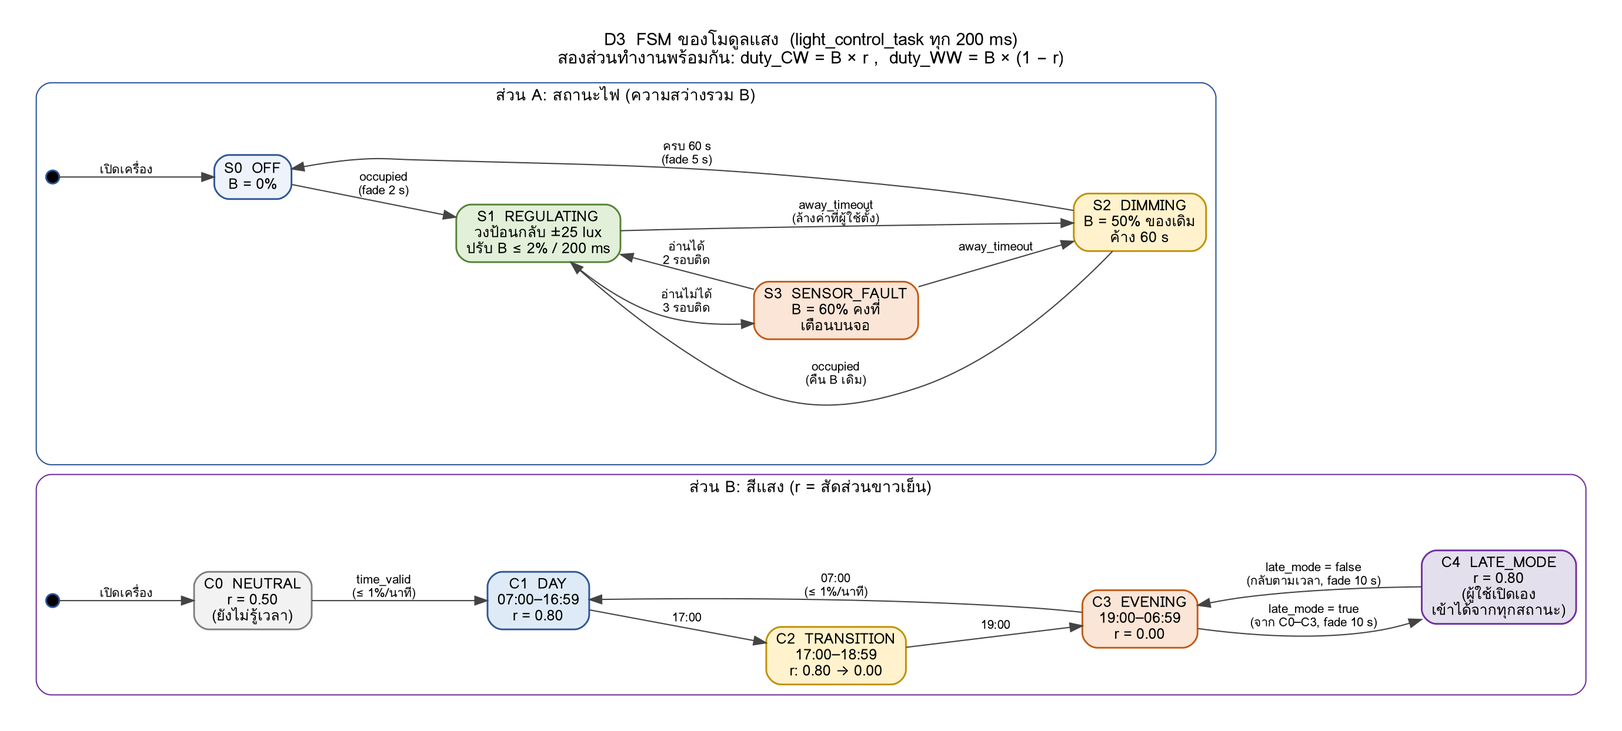
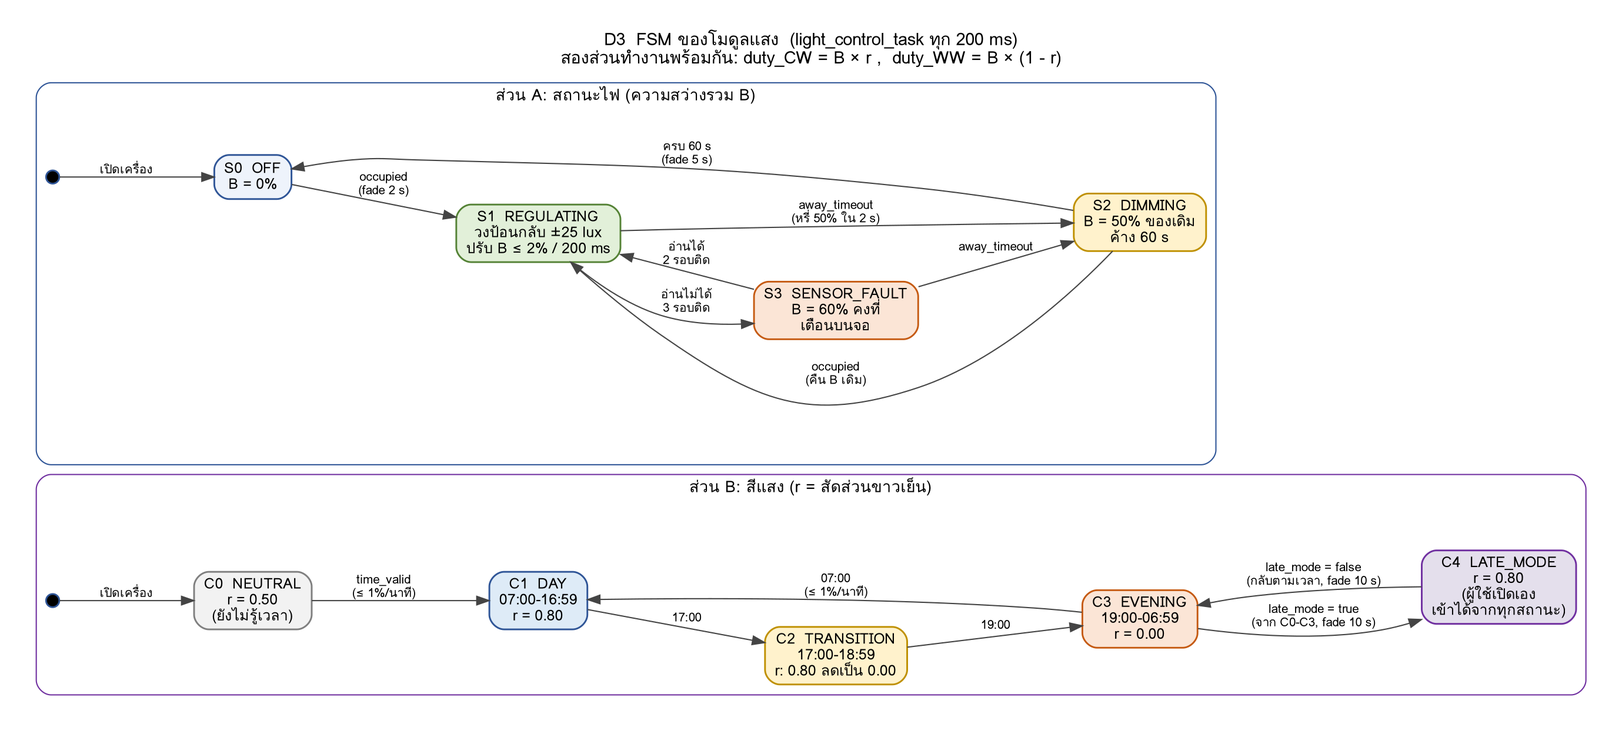
docs(role-d): update D1/D2/D3/D-TC per A1 v1.0 and A2, Closes #7

diff --git a/09_doc_sections/D_pm_light/D4_4.2_hardware_light.md b/09_doc_sections/D_pm_light/D4_4.2_hardware_light.md
@@ -1,39 +1,41 @@
 # เนื้อหาเล่ม: หัวข้อ 4.2 ส่วนโมดูลแสง (D)
 
-> ไฟล์นี้คือข้อความที่จะลงเล่มในหัวข้อ 4.2 Sensor/Actuator Choice and Justification ส่วนโมดูลแสง
+> ข้อความชุดนี้ตรงกับเล่มร่างของ D ทุกตัวอักษร (อัปเดต 2026-10-14 ตาม A1 v1.0 และ A2) เขียนตามกติกาเล่ม: ไม่อ้างบท/หน้าสไลด์ ไม่ใช้ขีดยาวหรือลูกศร
+> เลขอ้างอิง [x] และเลขตาราง/ภาพเป็นเลขในเล่มร่าง อาจเปลี่ยนตอนรวมเล่ม
 > รายละเอียดทางเทคนิคเต็มอยู่ใน `03_hardware/D2_hardware_light.md`
-> เลขอ้างอิง [x] ตามรายการใน `01_requirements/D1_requirements.md` ข้อ 7 (เลขอาจเปลี่ยนตอนรวมเล่ม)
 
 ---
 
-## 4.2.x อุปกรณ์โมดูลแสง (โหนดโต๊ะ)
+### 4.2.3 อุปกรณ์โมดูลแสง
 
 โมดูลแสงมีหน้าที่รักษาความสว่างบนโต๊ะให้อยู่ที่ 500 lux และปรับสีแสงตามช่วงเวลาของวัน จึงประกอบด้วยอุปกรณ์ 3 ส่วน ได้แก่ เซนเซอร์วัดแสงที่บอกว่าตอนนี้โต๊ะสว่างเท่าไร แหล่งแสง LED ที่ปรับได้ทั้งความสว่างและสี และวงจรขับที่ทำให้ไมโครคอนโทรลเลอร์สั่งแหล่งแสง 12 V ได้
 
 **1) เซนเซอร์วัดแสง BH1750FVI**
 
-เลือก BH1750 เพราะให้ค่าออกมาเป็นหน่วย lux โดยตรง ระบบนำไปเทียบกับค่าเป้าหมาย 500 lux ได้ทันทีโดยไม่ต้องแปลงสูตร และการตอบสนองต่อแสงใกล้เคียงสายตาคน (ไวที่สุดที่ความยาวคลื่น 560 nm) ค่าที่วัดได้จึงตรงกับความสว่างที่ผู้ใช้รู้สึก เซนเซอร์มีฟังก์ชันตัดการกะพริบของไฟบ้าน 50/60 Hz ทำให้ค่าไม่แกว่งตามไฟเพดาน และวัดได้ 1–65,535 lux ซึ่งครอบคลุมช่วงที่โต๊ะทำงานในอาคารต้องการ (0–2,000 lux) ตามหลักการกำหนดช่วงค่าที่งานต้องการวัด (บท 13 หน้า 18)
+เลือก BH1750 เพราะให้ค่าออกมาเป็นหน่วย lux โดยตรง ระบบนำไปเทียบกับค่าเป้าหมาย 500 lux ได้ทันทีโดยไม่ต้องแปลงสูตร และการตอบสนองต่อแสงใกล้เคียงสายตาคน (ไวที่สุดที่ความยาวคลื่น 560 nm) ค่าที่วัดได้จึงตรงกับความสว่างที่ผู้ใช้รู้สึก เซนเซอร์มีฟังก์ชันตัดการกะพริบของไฟบ้าน 50/60 Hz ทำให้ค่าไม่แกว่งตามไฟเพดาน และวัดได้ 1-65,535 lux ซึ่งครอบคลุมช่วงที่โต๊ะทำงานในอาคารต้องการ (0-2,000 lux) จึงไม่ต้องสลับช่วงวัดระหว่างใช้งาน [14]
 
-เซนเซอร์ต่อกับ ESP32 ทาง I²C ใช้เพียง 2 ขา และใช้บัสร่วมกับจอ OLED ของโมดูลตรวจคนได้ ซึ่งตรงกับแนวทางเลือกอุปกรณ์ที่ตัวประมวลผลรองรับการเชื่อมต่อในตัว เพื่อประหยัดขาและลดงานซอฟต์แวร์ (บท 10 หน้า 44–45) เมื่อเทียบกับตัวต้านทานไวแสง (LDR) ที่ราคาถูกกว่า LDR ให้ค่าไม่เป็นเส้นตรง ต้อง calibrate เอง และค่าเปลี่ยนตามอุณหภูมิ ส่วน VEML7700 วัดได้กว้างถึงราว 120,000 lux ซึ่งเกินความต้องการของงานในอาคาร
+เซนเซอร์ต่อกับ ESP32 ทาง I²C ใช้เพียง 2 ขา และใช้บัสร่วมกับจอ OLED ของโมดูลตรวจคนได้ ESP32 มีวงจร I²C อยู่ในตัวแล้ว จึงช่วยประหยัดขาของไมโครคอนโทรลเลอร์และลดงานซอฟต์แวร์ เมื่อเทียบกับตัวต้านทานไวแสง (LDR) ที่ราคาถูกกว่า LDR ให้ค่าไม่เป็นเส้นตรง ต้องปรับเทียบเอง และค่าเปลี่ยนตามอุณหภูมิ ส่วน VEML7700 วัดได้กว้างถึงราว 120,000 lux ซึ่งเกินความต้องการของงานในอาคาร
 
 **2) แหล่งแสง: แถบ LED 12 V แบบ 2 สี (CCT)**
 
-ระบบต้องปรับสีแสงตามเวลา คือใช้แสงขาวอมฟ้าในเวลากลางวันเพื่อให้ตื่นตัว [4] และใช้แสงขาวอุ่นในช่วงค่ำเพื่อลดผลต่อการนอน [10] จึงเลือกแถบ LED ที่มีหลอดขาวอุ่น (ประมาณ 2,700–3,000 K) และขาวเย็น (ประมาณ 6,000–6,500 K) อยู่ในแถบเดียวกัน คุมแยกกันได้ 2 ช่อง เมื่อผสม 2 ช่องด้วยสัดส่วนต่างกันจะได้สีขาวทุกระดับในช่วงนี้ และกำหนดให้มีค่าความถูกต้องของสี (CRI) ไม่ต่ำกว่า 80 ตามมาตรฐานแสงสว่างในที่ทำงาน [3]
+ระบบต้องปรับสีแสงตามเวลา คือใช้แสงขาวอมฟ้าในเวลากลางวันเพื่อให้ตื่นตัว [4] และใช้แสงขาวอุ่นในช่วงค่ำเพื่อลดผลต่อการนอน [10] จึงเลือกแถบ LED ที่มีหลอดขาวอุ่น (ประมาณ 2,700-3,000 K) และขาวเย็น (ประมาณ 6,000-6,500 K) อยู่ในแถบเดียวกัน คุมแยกกันได้ 2 ช่อง เมื่อผสม 2 ช่องด้วยสัดส่วนต่างกันจะได้สีขาวทุกระดับในช่วงนี้ และกำหนดให้มีค่าความถูกต้องของสี (CRI) ไม่ต่ำกว่า 80 ตามมาตรฐานแสงสว่างในที่ทำงาน [3]
 
-ไม่เลือกแถบ LED แบบ RGB เพราะสร้างสีขาวจากแสง 3 สี ทำให้ค่า CRI ต่ำและของบนโต๊ะดูสีเพี้ยน และไม่เลือกหลอด 220 V แบบหรี่ได้ เพราะต้องใช้วงจรหรี่ไฟกระแสสลับที่อันตรายและซับซ้อนกว่า แถบ LED ใช้ไฟ 12 V จาก adapter ตัวเดียวกับระบบ เมื่อเปิดเต็มใช้กระแสประมาณ 0.5–0.7 A (ค่าประมาณการ)
+ไม่เลือกแถบ LED แบบ RGB เพราะสร้างสีขาวจากแสง 3 สี ทำให้ค่า CRI ต่ำและของบนโต๊ะดูสีเพี้ยน และไม่เลือกหลอด 220 V แบบหรี่ได้ เพราะต้องใช้วงจรหรี่ไฟกระแสสลับที่อันตรายและซับซ้อนกว่า แถบ LED ใช้ไฟ 12 V จาก adapter ตัวเดียวกับระบบ เมื่อเปิดเต็มใช้กระแสประมาณ 0.5-0.7 A (ค่าประมาณการ)
 
 **3) วงจรขับ: MOSFET AO3400A จำนวน 2 ตัว**
 
-ขา GPIO ของ ESP32 ให้แรงดันเพียง 3.3 V และจ่ายกระแสได้น้อย จึงขับแถบ LED 12 V โดยตรงไม่ได้ ต้องมีวงจรขับคั่นกลาง (บท 13 หน้า 34–35) ระบบใช้ MOSFET ชนิด N เป็นสวิตช์ฝั่งลบของ LED แต่ละช่อง และใช้ PWM ปรับความสว่าง (บท 13 หน้า 91–93)
+ขา GPIO ของ ESP32 ให้แรงดันเพียง 3.3 V และจ่ายกระแสได้น้อย จึงขับแถบ LED 12 V โดยตรงไม่ได้ ต้องมีวงจรขับคั่นกลาง ระบบใช้ MOSFET ชนิด N เป็นสวิตช์ฝั่งลบของ LED แต่ละช่อง และใช้ PWM ปรับความสว่างโดยเปลี่ยนสัดส่วนเวลาที่ไฟติดในแต่ละคาบ
 
-เลือก AO3400A เพราะ datasheet รับรองว่าเปิดได้เต็มที่ตั้งแต่แรงดัน Gate 2.5 V (ความต้านทานขณะเปิดไม่เกิน 48 mΩ) ซึ่งต่ำกว่า 3.3 V ของ ESP32 ส่วน IRLZ44N ที่นิยมใช้กับ Arduino รับรองค่าที่ 4–5 V ขึ้นไป อาจเปิดไม่สุดเมื่อใช้ 3.3 V ที่กระแส 1 A ตัว AO3400A เสียพลังงานเป็นความร้อนเพียงประมาณ 0.05 W จึงไม่ต้องติดแผ่นระบายความร้อน วงจรใส่ตัวต้านทาน 100 Ω ที่ขา Gate เพื่อจำกัดกระแสกระชาก และตัวต้านทาน 10 kΩ ดึงขา Gate ลงกราวด์ เพื่อให้ไฟดับแน่นอนระหว่างที่ ESP32 กำลังเริ่มทำงาน
+เลือก AO3400A เพราะ datasheet รับรองว่าเปิดได้เต็มที่ตั้งแต่แรงดัน Gate 2.5 V (ความต้านทานขณะเปิดไม่เกิน 48 mΩ) ซึ่งต่ำกว่า 3.3 V ของ ESP32 [15] ส่วน IRLZ44N ที่นิยมใช้กับ Arduino รับรองค่าที่ 4-5 V ขึ้นไป อาจเปิดไม่สุดเมื่อใช้ 3.3 V ที่กระแส 1 A ตัว AO3400A เสียพลังงานเป็นความร้อนเพียงประมาณ 0.05 W จึงไม่ต้องติดแผ่นระบายความร้อน วงจรใส่ตัวต้านทาน 100 Ω ที่ขา Gate เพื่อจำกัดกระแสกระชาก และตัวต้านทาน 10 kΩ ดึงขา Gate ลงกราวด์ เพื่อให้ไฟดับแน่นอนระหว่างที่ ESP32 กำลังเริ่มทำงาน
 
-**ตารางที่ 4.x สรุปอุปกรณ์โมดูลแสง**
+ช่องขาวเย็นต่อกับขา GPIO 18 และช่องขาวอุ่นต่อกับขา GPIO 19 ทั้งสองขาใช้วงจร PWM ในตัว ESP32 ชุดเดียวกันที่ความถี่ 5 kHz ความละเอียด 13 บิต ส่วนเซนเซอร์แสงใช้ขา I²C 21 และ 22 ร่วมกับจอ OLED นอกจากนี้ทีมเลือกใช้ AO3400A กับพัดลมของโมดูลอากาศด้วย ทั้งระบบจึงใช้ MOSFET รุ่นเดียวกัน ช่วยลดจำนวนชนิดของชิ้นส่วนที่ต้องจัดหา
+
+**ตารางที่ 4.3 สรุปอุปกรณ์โมดูลแสง**
 
 | อุปกรณ์ | หน้าที่ | ไฟเลี้ยง | การเชื่อมต่อ | ในการจำลอง (Wokwi) |
 |---|---|---|---|---|
-| BH1750FVI | วัดความสว่างบนโต๊ะ (lux) | 3.3 V, สูงสุด 0.19 mA | I²C (0x23) ร่วมกับ OLED | Photoresistor sensor |
-| แถบ LED 12 V แบบ 2 สี (CRI ≥ 80) | แหล่งแสง ปรับความสว่างและสี | 12 V, ประมาณ 0.5–0.7 A | ผ่าน MOSFET | LED สีขาวและสีเหลือง |
-| AO3400A × 2 | สวิตช์ PWM ช่องขาวอุ่นและขาวเย็น | — | GPIO (PWM 5 kHz) | ไม่ใช้ |
+| BH1750FVI | วัดความสว่างบนโต๊ะ (lux) | 3.3 V, สูงสุด 0.19 mA | I²C (0x23) ขา 21 และ 22 ร่วมกับ OLED | Photoresistor sensor ที่ขา GPIO 34 |
+| แถบ LED 12 V แบบ 2 สี (CRI ไม่ต่ำกว่า 80) | แหล่งแสง ปรับความสว่างและสี | 12 V, ประมาณ 0.5-0.7 A | ผ่าน MOSFET | LED สีขาวและสีเหลือง |
+| AO3400A จำนวน 2 ตัว | สวิตช์ PWM ช่องขาวอุ่นและขาวเย็น | - | GPIO 18 (ขาวเย็น) และ GPIO 19 (ขาวอุ่น) PWM 5 kHz | ไม่ใช้ |
 
-**ข้อจำกัดของการจำลอง:** Wokwi ไม่มีแบบจำลอง BH1750 จึงใช้ photoresistor แทน และเซนเซอร์ในโปรแกรมจำลองมองไม่เห็นแสงจาก LED ที่จำลองอยู่ การทดสอบวงควบคุมแบบป้อนกลับจึงต้องคำนวณแสงจาก LED เพิ่มในโค้ดจำลอง
+ข้อจำกัดของการจำลอง: Wokwi ไม่มีแบบจำลอง BH1750 จึงใช้ photoresistor ต่อเข้าขา GPIO 34 แทน ขานี้อยู่ในวงจรแปลงสัญญาณแอนะล็อกชุดที่ 1 (ADC1) เพราะชุดที่ 2 ใช้ไม่ได้ขณะเปิด Wi-Fi และเซนเซอร์ในโปรแกรมจำลองมองไม่เห็นแสงจาก LED ที่จำลองอยู่ การทดสอบวงควบคุมแบบป้อนกลับจึงต้องคำนวณแสงจาก LED เพิ่มในโค้ดจำลอง [17]

diff --git a/09_doc_sections/D_pm_light/D4_5.1-5.2_logic_light.md b/09_doc_sections/D_pm_light/D4_5.1-5.2_logic_light.md
@@ -1,66 +1,86 @@
 # เนื้อหาเล่ม: หัวข้อ 5.1 และ 5.2 ส่วนโมดูลแสง (D)
 
-> ข้อความที่จะลงเล่มหัวข้อ 5.1 Flowcharts or UML Diagrams และ 5.2 Pseudocode ส่วนโมดูลแสง
+> ข้อความชุดนี้ตรงกับเล่มร่างของ D ทุกตัวอักษร (อัปเดต 2026-10-14 ตาม A1 v1.0 และ A2) เขียนตามกติกาเล่ม: ไม่อ้างบท/หน้าสไลด์ ไม่ใช้ขีดยาวหรือลูกศร
+> เลขอ้างอิง [x] และเลขตาราง/ภาพเป็นเลขในเล่มร่าง อาจเปลี่ยนตอนรวมเล่ม
 > รายละเอียดเต็มและเหตุผลของตัวเลขทุกตัวอยู่ใน `04_logic/D3_logic_light.md`
-> ภาพ: `07_visuals/D3_fsm_light.png`
 
 ---
 
-## 5.1.x แผนภาพสถานะของโมดูลแสง
+### 5.1.3 แผนภาพสถานะของโมดูลแสง
 
-โมดูลแสงทำงานเป็นงานย่อย `light_control_task` ทุก 200 ms และแบ่ง logic เป็น 2 ส่วนที่ทำงานพร้อมกัน ตามแนวคิด AND super-state (บท 3 หน้า 49–78) ส่วนแรกตัดสินว่าไฟควรเปิด หรี่ หรือปิด และคุมความสว่างรวม (B) ส่วนที่สองตัดสินสัดส่วนแสงขาวเย็น (r) ตามช่วงเวลาของวัน จากนั้นนำสองค่ามารวมกันเป็นค่า duty ของ PWM ทั้งสองช่อง คือ ช่องขาวเย็นเท่ากับ B × r และช่องขาวอุ่นเท่ากับ B × (1 − r) การแยกแบบนี้ทำให้การเปลี่ยนสีไม่กระทบความสว่าง เพราะวงควบคุมจะปรับ B ให้แสงบนโต๊ะกลับมาที่ค่าเป้าหมายเองเสมอ
+โมดูลแสงทำงานเป็นงานย่อย light_control_task ทุก 200 ms และแบ่ง logic เป็น 2 ส่วนที่ทำงานพร้อมกัน ตามแนวคิด AND super-state ของ statechart ที่ให้หลายกลุ่มสถานะทำงานคู่ขนานกันได้ ส่วนแรกตัดสินว่าไฟควรเปิด หรี่ หรือปิด และคุมความสว่างรวม (B) ส่วนที่สองตัดสินสัดส่วนแสงขาวเย็น (r) ตามช่วงเวลาของวัน จากนั้นนำสองค่ามารวมกันเป็นค่า duty ของ PWM ทั้งสองช่อง คือช่องขาวเย็นเท่ากับ B × r และช่องขาวอุ่นเท่ากับ B × (1 - r) การแยกแบบนี้ทำให้การเปลี่ยนสีไม่กระทบความสว่าง เพราะวงควบคุมจะปรับ B ให้แสงบนโต๊ะกลับมาที่ค่าเป้าหมายเองเสมอ
 
-**ภาพที่ 5.x** แผนภาพสถานะของโมดูลแสง (ซ้าย: สถานะไฟ / ขวา: สีแสง)
+![แผนภาพสถานะของโมดูลแสง](../../07_visuals/D3_fsm_light.png)
 
-**ตารางที่ 5.x สถานะไฟ**
+**ภาพที่ 5.3 แผนภาพสถานะของโมดูลแสง (บน: สถานะไฟ ล่าง: สีแสง)**
+
+**ตารางที่ 5.3 สถานะไฟของโมดูลแสง**
 
 | สถานะ | ความหมาย | การทำงาน |
 |---|---|---|
 | S0 OFF | ไม่มีคน | ปิดไฟ |
-| S1 REGULATING | มีคนนั่ง เซนเซอร์ปกติ | อ่านแสงทุก 200 ms ถ้าต่างจากเป้าหมายเกิน ±25 lux ให้ปรับ B ทีละไม่เกิน 2% |
+| S1 REGULATING | มีคนนั่ง เซนเซอร์ปกติ | อ่านแสงทุก 200 ms ถ้าต่างจากเป้าหมายเกิน 25 lux ให้ปรับ B ทีละไม่เกิน 2% |
 | S2 DIMMING | ไม่มีคนครบ 5 นาที | หรี่เหลือ 50% ค้าง 60 วินาที แล้วค่อยๆ ปิด ถ้าคนกลับมาก่อน ไฟกลับไปสว่างเท่าเดิม |
 | S3 SENSOR_FAULT | อ่านเซนเซอร์แสงไม่ได้ 3 รอบติดกัน | ค้างไฟที่ 60% และแจ้งเตือนบนจอ จนกว่าจะอ่านได้ปกติ 2 รอบติดกัน |
 
-**ตารางที่ 5.x สถานะสีแสง**
+**ตารางที่ 5.4 สถานะสีแสงของโมดูลแสง**
 
 | สถานะ | เวลา / เงื่อนไข | สัดส่วนแสงขาวเย็น (r) |
 |---|---|---|
 | C0 NEUTRAL | ยังไม่ได้เวลาจากเครือข่าย | 0.50 |
-| C1 DAY | 07:00–16:59 | 0.80 |
-| C2 TRANSITION | 17:00–18:59 | ลดลงจาก 0.80 เป็น 0.00 ภายใน 120 นาที |
-| C3 EVENING | 19:00–06:59 | 0.00 |
+| C1 DAY | 07:00-16:59 | 0.80 |
+| C2 TRANSITION | 17:00-18:59 | ลดลงจาก 0.80 เป็น 0.00 ภายใน 120 นาที |
+| C3 EVENING | 19:00-06:59 | 0.00 |
 | C4 LATE_MODE | ผู้ใช้เปิดโหมดทำงานดึก | 0.80 |
 
-ทุกการเปลี่ยนแปลงของแสงเป็นแบบค่อยเป็นค่อยไป การเปลี่ยนสีอัตโนมัติไม่เกิน 1% ต่อนาที การเปิดไฟใช้เวลา 2 วินาที การปิดไฟใช้เวลา 5 วินาที และการเปลี่ยนตามคำสั่งผู้ใช้ใช้เวลา 10 วินาที โดยใช้ฟังก์ชัน fade ของวงจร PWM ในตัว ESP32 ซึ่งไล่ค่า duty เองโดยไม่ใช้เวลาประมวลผลของ CPU
+ทุกการเปลี่ยนแปลงของแสงเป็นแบบค่อยเป็นค่อยไป การเปลี่ยนสีอัตโนมัติไม่เกิน 1% ต่อนาที การเปิดไฟใช้เวลา 2 วินาที การปิดไฟใช้เวลา 5 วินาที และการเปลี่ยนตามคำสั่งผู้ใช้ใช้เวลา 10 วินาที โดยใช้ฟังก์ชัน fade ของวงจร PWM ในตัว ESP32 ซึ่งไล่ค่า duty เองโดยไม่ใช้เวลาประมวลผลของ CPU [16]
 
-## 5.2.x Pseudocode ของโมดูลแสง
+### 5.2.3 Pseudocode ของโมดูลแสง
 
 ```text
-TASK light_control_task (period = 200 ms):
-  LOOP FOREVER:
-    snap = read_snapshot(occupied, away_timeout, time_of_day, time_valid,
-                         user_lux_target, late_mode)
-    IF take(i2c_lock, 50 ms) THEN ok = bh1750_read_lux(&lux); give(i2c_lock)
-    ELSE ok = FALSE
+TASK light_control_task (period = 200 ms)
+  LOOP
+    snap = read_snapshot(occupied, away_timeout, time_of_day,
+                         time_valid, user_lux_target, late_mode)
+    IF take(i2c_lock, 50 ms) THEN
+        ok = bh1750_read_lux(lux)
+        give(i2c_lock)
+    ELSE
+        ok = FALSE
+    END IF
     update_error_counters(ok)
-    target = clamp(snap.user_lux_target, 500, 1000)   // ไม่มีค่า = 500
+    target = clamp(snap.user_lux_target, 500, 1000)   // ไม่มีค่าให้ใช้ 500
 
-    SWITCH light_state:
-      S0_OFF:        IF snap.occupied → fade_on(2 s) → S1_REGULATING
-      S1_REGULATING: IF snap.away_timeout → enter_dimming()
-                     ELSE IF err_count >= 3 → B = 60%, alert(SHOW) → S3_SENSOR_FAULT
-                     ELSE IF ok AND |target - lux| > 25:
-                          B += clamp(0.02 × (target - lux), -2, +2)
-      S2_DIMMING:    IF snap.occupied → restore B (2 s) → S1_REGULATING
-                     ELSE IF held 60 s → fade_off(5 s) → S0_OFF
-      S3_SENSOR_FAULT: IF snap.away_timeout → enter_dimming()
-                     ELSE IF ok_count >= 2 → alert(CLEAR) → S1_REGULATING
+    SWITCH light_state
+      CASE S0_OFF:
+        IF snap.occupied THEN fade_on(2 s); light_state = S1_REGULATING
+      CASE S1_REGULATING:
+        IF snap.away_timeout THEN enter_dimming()
+        ELSE IF err_count >= 3 THEN
+            set_B(60%); send_alert(SENSOR_FAULT, SHOW)
+            light_state = S3_SENSOR_FAULT
+        ELSE IF ok AND abs(target - lux) > 25 THEN
+            B = B + clamp(0.02 * (target - lux), -2, 2)
+        END IF
+      CASE S2_DIMMING:
+        IF snap.occupied THEN restore_B(2 s); light_state = S1_REGULATING
+        ELSE IF dim_time >= 60 s THEN fade_off(5 s); light_state = S0_OFF
+      CASE S3_SENSOR_FAULT:
+        IF snap.away_timeout THEN enter_dimming()
+        ELSE IF ok_count >= 2 THEN
+            send_alert(SENSOR_FAULT, CLEAR); light_state = S1_REGULATING
+        END IF
+    END SWITCH
 
-    r_target = late_mode ? 0.80 : (time_valid ? schedule(time) : 0.50)
-    r = move_toward(r, r_target, late_mode_changed ? 10 s : 1% per minute)
+    IF snap.late_mode THEN r_target = 0.80
+    ELSE IF snap.time_valid THEN r_target = schedule(snap.time_of_day)
+    ELSE r_target = 0.50
+    r = move_toward(r, r_target)     // อัตโนมัติไม่เกิน 1% ต่อนาที
 
-    ledc_fade(CH_CW, B × r) ; ledc_fade(CH_WW, B × (1 - r))
+    ledc_fade(CH_CW, B * r)
+    ledc_fade(CH_WW, B * (1 - r))
     wait_until_next_period()
+  END LOOP
 ```
 
-เมื่อเข้าสถานะ S2 ระบบจะล้างค่าที่ผู้ใช้ปรับเองทั้งหมด (ความสว่างเป้าหมายและโหมดทำงานดึก) เพื่อให้ผู้ใช้คนถัดไปเริ่มจากค่ามาตรฐานเสมอ ส่วนค่าที่ผู้ใช้ป้อนนอกช่วง 500–1,000 lux จะถูกปัดเข้าช่วง ตามหลักการออกแบบให้รองรับความผิดพลาดของผู้ใช้ (บท 6 หน้า 46)
+เมื่อไม่มีคนครบ 5 นาที โมดูลตรวจคนจะคืนค่าที่ผู้ใช้ปรับเองทั้งหมด (ความสว่างเป้าหมายและโหมดทำงานดึก) กลับเป็นค่าเริ่มต้น เพื่อให้ผู้ใช้คนถัดไปเริ่มจากค่ามาตรฐานเสมอ โมดูลแสงอ่านค่าเหล่านี้อย่างเดียวและไม่เขียนกลับ ข้อมูลแต่ละตัวจึงมีเจ้าของเพียงโมดูลเดียว ส่วนค่าความสว่างที่อยู่นอกช่วง 500-1,000 lux โมดูลแสงจะปัดเข้าช่วงอีกชั้นหนึ่ง เพื่อป้องกันความผิดพลาดจากการป้อนค่า

diff --git a/00_team_guide/00_overview.md b/00_team_guide/00_overview.md
@@ -4,7 +4,7 @@
 > สมาชิกทุกคน และ AI ที่แต่ละคนใช้ช่วยทำงาน ควรอ่านไฟล์นี้ก่อนไฟล์บทบาทของตัวเอง
 > ไฟล์บทบาท: `role_A_integration.md`, `role_B_presence_tasks.md`, `role_C_air_visual_test.md`, `role_D_pm_light.md`
 >
-> ผู้ดูแลไฟล์: D (PM) | อัปเดตล่าสุด: 2026-10-13
+> ผู้ดูแลไฟล์: D (PM) | อัปเดตล่าสุด: 2026-10-14
 
 ---
 
@@ -85,6 +85,8 @@
 
 ## 4. ค่าเกณฑ์เริ่มต้น (D จะยืนยันใน D1)
 
+> ⚠ **ตารางนี้เป็นร่างเดิม ยืนยันแล้วใน D1** ให้ใช้ค่าจาก `01_requirements/D1_requirements.md` ข้อ 6 (เช่น อุณหภูมิเตือนต่ำกว่า 20°C หรือสูงกว่า 26°C, คาบ PWM ของ LED 0.2 ms ที่ 5 kHz)
+
 ตัวเลขที่ใช้ในระบบต้องมีที่มาทุกตัว ห้ามตั้งขึ้นลอยๆ
 
 | ค่า | ค่าเริ่มต้น | ที่มา |
@@ -102,6 +104,8 @@
 ---
 
 ## 5. ตารางข้อมูลกลาง (ร่าง — A จะยืนยันใน A1)
+
+> ⚠ **ตารางนี้ล้าสมัยแล้ว** ให้ใช้ `02_interface/A1_interface.md` **v1.0** แทน (มีข้อมูลเพิ่ม เช่น `away_timeout`, `user_lux_target`, `late_mode`, `time_valid`, `link_ok`, `room_desks_online` และโครงสร้าง `air_status_t`, `alert_request_t`)
 
 **ตารางนี้คือ "สัญญา" ระหว่างโมดูล** บอกว่าแต่ละโมดูลส่งข้อมูลอะไรออก และรับอะไรเข้า เมื่อตกลงกันแล้ว แต่ละคนออกแบบข้างในโมดูลของตัวเองได้อิสระ **ห้ามเปลี่ยนตารางนี้เองโดยไม่บอก A**
 
@@ -178,12 +182,12 @@
 
 | Milestone | วันที่ (D เติม) | เป้าหมาย | ของที่ต้องครบก่อนผ่านด่าน | ปลดล็อกอะไร |
 |---|---|---|---|---|
-| **M1 ตั้งต้น** | ____ | ทุกคนรู้ว่าระบบต้องทำอะไร และส่วนต่างๆ ต่อกันยังไง | D1, A1 | ทุกคนเริ่มออกแบบโมดูลได้ |
-| **M2 ออกแบบโมดูล** (ทำพร้อมกัน) | ____ | ทุกโมดูลมีอุปกรณ์และ logic ครบ | A2, A3, B1, B2, C1, C2, D2, D3 + ข้อมูลงานย่อย (X-T) และ test case (X-TC) ของทุกคน | A เขียนโค้ด, B ทำตารางงานย่อยรวม, C ทำแผนทดสอบ |
-| **M3 รวมระบบ** | ____ | มีโค้ดและวงจรจำลองที่รวมทุกโมดูลแล้ว | A4, B3, C5 (+ C3, C4) | เริ่มทดสอบ |
-| **M4 ทดสอบ** | ____ | รู้ว่าระบบทำงานตาม requirement หรือไม่ | A5 (ถ้าโมดูลไหนไม่ผ่าน เจ้าของแก้ logic แล้วส่งใหม่) | มีผลจริงให้เขียนหัวข้อ 7 |
-| **M5 เขียนเอกสาร** | ____ | ทุกคนส่งเนื้อหาส่วนตัวเอง | A6, B4, C6, D4 + บันทึกปัญหาและอ้างอิง (X-N) ของทุกคน | D รวมเล่ม |
-| **M6 รวมเล่มและส่ง** | ____ | เอกสารสมบูรณ์ ทุกคนตรวจแล้ว | D5 | ส่งงาน |
+| **M1 ตั้งต้น** | ✅ 14 ต.ค. 2569 | ทุกคนรู้ว่าระบบต้องทำอะไร และส่วนต่างๆ ต่อกันยังไง | D1, A1 | ทุกคนเริ่มออกแบบโมดูลได้ |
+| **M2 ออกแบบโมดูล** (ทำพร้อมกัน) | ✅ 14 ต.ค. 2569 | ทุกโมดูลมีอุปกรณ์และ logic ครบ | A2, A3, B1, B2, C1, C2, D2, D3 + ข้อมูลงานย่อย (X-T) และ test case (X-TC) ของทุกคน | A เขียนโค้ด, B ทำตารางงานย่อยรวม, C ทำแผนทดสอบ |
+| **M3 รวมระบบ** | รอ D กำหนด | มีโค้ดและวงจรจำลองที่รวมทุกโมดูลแล้ว | A4, B3, C5 (+ C3, C4) | เริ่มทดสอบ |
+| **M4 ทดสอบ** | รอ D กำหนด | รู้ว่าระบบทำงานตาม requirement หรือไม่ | A5 (ถ้าโมดูลไหนไม่ผ่าน เจ้าของแก้ logic แล้วส่งใหม่) | มีผลจริงให้เขียนหัวข้อ 7 |
+| **M5 เขียนเอกสาร** | รอ D กำหนด | ทุกคนส่งเนื้อหาส่วนตัวเอง | A6, B4, C6, D4 + บันทึกปัญหาและอ้างอิง (X-N) ของทุกคน | D รวมเล่ม |
+| **M6 รวมเล่มและส่ง** | รอ D กำหนด | เอกสารสมบูรณ์ ทุกคนตรวจแล้ว | D5 | ส่งงาน |
 
 **เส้นทางวิกฤต (ช้าตรงไหน ทั้งโปรเจคช้าตาม):**
 D1 + A1 → logic ของ B, C, D → A เขียนโค้ดและจำลอง → ผลทดสอบ → รวมเล่ม
@@ -297,13 +301,20 @@ Embedded_Project/
 
 ## 14. แหล่งอ้างอิงหลักที่ทีมมีแล้ว
 
-[1] J. G. Allen et al., "Associations of cognitive function scores with carbon dioxide, ventilation, and volatile organic compound exposures in office workers," *Environ. Health Perspect.*, vol. 124, no. 6, 2016, doi: 10.1289/ehp.1510037.
+[1] J. G. Allen et al., "Associations of cognitive function scores with carbon dioxide, ventilation, and volatile organic compound exposures in office workers," *Environ. Health Perspect.*, vol. 124, no. 6, pp. 805–812, 2016, doi: 10.1289/ehp.1510037.
 [2] U. Satish et al., "Is CO2 an indoor pollutant? Direct effects of low-to-moderate CO2 concentrations on human decision-making performance," *Environ. Health Perspect.*, vol. 120, no. 12, pp. 1671–1677, 2012, doi: 10.1289/ehp.1104789.
-[3] *Light and lighting – Lighting of work places – Part 1: Indoor work places*, EN 12464-1.
+[3] *Light and lighting – Lighting of work places – Part 1: Indoor work places*, EN 12464-1:2021.
 [4] A. U. Viola, L. M. James, L. J. Schlangen, and D. J. Dijk, "Blue-enriched white light in the workplace improves self-reported alertness, performance and sleep quality," *Scand. J. Work Environ. Health*, vol. 34, no. 4, pp. 297–306, 2008, doi: 10.5271/sjweh.1268.
-[5] O. Seppänen, W. J. Fisk, and Q. H. Lei, "Effect of temperature on task performance in office environment," Lawrence Berkeley National Laboratory, 2006.
+[5] O. Seppänen, W. J. Fisk, and Q. H. Lei, "Effect of temperature on task performance in office environment," Lawrence Berkeley National Laboratory, Rep. LBNL-60952, Jul. 2006.
 [6] A. A. Abusharha and E. I. Pearce, "The effect of low humidity on the human tear film," *Cornea*, vol. 32, no. 4, 2013, doi: 10.1097/ICO.0b013e31826671ab.
 [7] C. Talens-Estarelles et al., "The effects of breaks on digital eye strain, dry eye and binocular vision: Testing the 20-20-20 rule," *Cont. Lens Anterior Eye*, 2022, Art. no. 101744, doi: 10.1016/j.clae.2022.101744.
 [8] P. Wennberg et al., "Acute effects of breaking up prolonged sitting on fatigue and cognition: A pilot study," *BMJ Open*, vol. 6, no. 2, Art. no. e009630, 2016.
 
-ต้องตรวจซ้ำก่อนส่งจริง: เลขหน้าของ [1] และ [6], ปีของ [3]
+[9] A. L. Sheppard and J. S. Wolffsohn, "Digital eye strain: Prevalence, measurement and amelioration," *BMJ Open Ophthalmol.*, vol. 3, no. 1, Art. no. e000146, 2018, doi: 10.1136/bmjophth-2018-000146.
+[10] A.-M. Chang, D. Aeschbach, J. F. Duffy, and C. A. Czeisler, "Evening use of light-emitting eReaders negatively affects sleep, circadian timing, and next-morning alertness," *Proc. Natl. Acad. Sci. USA*, vol. 112, no. 4, pp. 1232–1237, 2015, doi: 10.1073/pnas.1418490112.
+[11] *IEEE Recommended Practices for Modulating Current in High-Brightness LEDs for Mitigating Health Risks to Viewers*, IEEE Std 1789-2015, 2015.
+[12] *Energy Standard for Buildings Except Low-Rise Residential Buildings*, ANSI/ASHRAE/IES Standard 90.1-2019, 2019.
+[13] Sensirion, "SCD4x: Breaking the size barrier in CO2 sensing," datasheet.
+
+รายการเต็มและเลขล่าสุดอยู่ใน `01_requirements/D1_requirements.md` ข้อ 7 · เลขทั้งเล่มจะจัดใหม่ตอนรวมเล่ม
+ต้องตรวจซ้ำก่อนส่งจริง: เลขหน้าของ [6]

diff --git a/04_logic/D3_logic_light.md b/04_logic/D3_logic_light.md
@@ -2,8 +2,9 @@
 
 | รายการ | ค่า |
 |---|---|
-| เวอร์ชัน | v1 |
+| เวอร์ชัน | v1.1 |
 | วันที่ | 2026-10-14 |
+| แก้ไขใน v1.1 | ตัด `reset_user_settings()` ออก B เป็นคนคืนค่าที่ผู้ใช้ปรับตาม A1 v1.0 ข้อ 3, อัปเดตตารางข้อมูลตาม A1 v1.0 (Issue #7) |
 | เจ้าของ | D |
 | ส่งให้ | A (เขียนโค้ด A4) |
 | อ้างอิง | `01_requirements/D1_requirements.md` (FR-06–FR-11, NFR-02, NFR-03, NFR-07, NFR-09–NFR-11), `02_interface/A1_interface.md`, `03_hardware/D2_hardware_light.md`, `05_tasks/D-T_tasks.md` |
@@ -49,7 +50,7 @@
 | (เปิดเครื่อง) | S0 OFF | — | B = 0, ตั้ง BH1750 เป็นโหมดวัดต่อเนื่อง (H-Resolution), ตั้ง LEDC 5 kHz 13 บิต 2 ช่อง |
 | S0 OFF | S1 REGULATING | `occupied` = true | ค่อยๆ เปิดไฟจาก 0 → B_start ใน 2 วินาที (B_start = B ครั้งล่าสุดที่ใช้ ถ้าไม่มีใช้ 50%) |
 | S1 REGULATING | S1 REGULATING | ทุก 200 ms | อ่าน `lux_now` → ปรับ B ตามวงป้อนกลับ (ข้อ 4) |
-| S1 REGULATING | S2 DIMMING | `away_timeout` = true | จำค่า B ไว้ (B_saved), หรี่เหลือ B_saved × 0.5 ใน 2 วินาที, เริ่มนับ 60 วินาที, **ล้างค่าที่ผู้ใช้ปรับ** (`user_lux_target` → 500, `late_mode` → false) ตาม FR-11 |
+| S1 REGULATING | S2 DIMMING | `away_timeout` = true | จำค่า B ไว้ (B_saved), หรี่เหลือ B_saved × 0.5 ใน 2 วินาที, เริ่มนับ 60 วินาที (ค่าที่ผู้ใช้ปรับ B เป็นคนคืนเป็นค่าเริ่มต้นเองเมื่อ `away_timeout` เป็นจริง ตาม FR-11 และ A1 ข้อ 3 D อ่านอย่างเดียว) |
 | S2 DIMMING | S1 REGULATING | `occupied` = true (คนกลับมาก่อนดับ) | ค่อยๆ กลับไปที่ B_saved ใน 2 วินาที แล้วใช้วงป้อนกลับต่อ |
 | S2 DIMMING | S0 OFF | ค้างครบ 60 วินาที | ค่อยๆ ปิดเหลือ 0 ใน 5 วินาที |
 | S1 REGULATING | S3 SENSOR_FAULT | อ่านค่าไม่ได้ 3 รอบติดกัน (รวมกรณีรอ `i2c_lock` เกิน 50 ms) | ค่อยๆ ไปที่ B = 60% ใน 2 วินาที, ส่ง `alert_request` {SRC_LIGHT, ALERT_SENSOR_FAULT, priority 1, ALERT_SHOW} |
@@ -114,7 +115,7 @@ TASK light_control_task (period = 200 ms):
         ok = bh1750_read_lux(&lux)        // อ่านผลล่าสุด 2 ไบต์ ไม่ต้องรอ 120 ms
         give(i2c_lock)
     ELSE
-        ok = FALSE                        // ข้ามรอบนี้ นับเป็นความผิดพลาด (A1 ข้อ 6)
+        ok = FALSE                        // ข้ามรอบนี้ นับเป็นความผิดพลาด (A1 ข้อ 7)
     END IF
     IF ok THEN lux_now = lux; err_count = 0; ok_count += 1
     ELSE err_count += 1; ok_count = 0
@@ -169,7 +170,7 @@ TASK light_control_task (period = 200 ms):
 FUNCTION enter_dimming():
   B_saved = B
   fade_B_to(B * DIM_RATIO, FADE_ON_MS)
-  reset_user_settings()          // user_lux_target = 500, late_mode = false (FR-11)
+  // ไม่ล้างค่าที่ผู้ใช้ปรับในฝั่ง D: B คืนค่า user_lux_target และ late_mode เอง (A1 ข้อ 3, FR-11)
   start_dim_timer()
   light_state = S2_DIMMING
 
@@ -184,7 +185,7 @@ FUNCTION to_counts(pct):         // 13 บิต: 0–8191
 
 **เรื่องที่ A ต้องรู้ตอนเขียนโค้ด**
 - `fade_B_to()` คือการเปลี่ยน B แบบค่อยเป็นค่อยไปในเวลาที่กำหนด ใช้ hardware fade ของ LEDC ได้ (`ledc_set_fade_with_time()`) ไม่ต้องสร้าง task เพิ่ม
-- `reset_user_settings()` เป็นการล้างค่าในฝั่ง D ถ้า A1 กำหนดให้ B เป็นเจ้าของ `user_lux_target` และ `late_mode` ให้ D แค่ **ไม่ใช้ค่านั้นจนกว่าผู้ใช้จะกดใหม่** หรือให้ B ล้างค่าเมื่อ `away_timeout` เป็นจริง (A ตัดสินใน A1)
+- **ค่าที่ผู้ใช้ปรับ (`user_lux_target`, `late_mode`):** ตัดสินแล้วใน A1 v1.0 ข้อ 3 ว่า B เป็นเจ้าของคนเดียวและเป็นคนคืนค่าเมื่อ `away_timeout` เป็นจริง D อ่านอย่างเดียว ไม่เขียนกลับ (เดิม D3 v1 มี `reset_user_settings()` ในฝั่ง D ตัดออกแล้ว)
 - **ในการจำลอง Wokwi:** photoresistor มองไม่เห็นแสงจาก LED ให้คิด `lux_now = lux_จากตัวเลื่อน + 6 × B` (ไฟเต็ม 100% ให้แสงเพิ่ม 600 lux ตามที่ประมาณใน D2) เพื่อให้วงป้อนกลับทำงานได้
 
 ---
@@ -216,10 +217,10 @@ FUNCTION to_counts(pct):         // 13 บิต: 0–8191
 | `away_timeout` | รับ | B | หรี่และปิดไฟ (S1/S3 → S2) |
 | `time_of_day` | รับ | A | เลือกสีแสง |
 | `time_valid` | รับ | A | ถ้า false ใช้สีกลาง (C0) |
-| `user_lux_target` 🆕 | รับ | B | ความสว่างเป้าหมายที่ผู้ใช้ตั้ง (500–1,000) — **รอ A เพิ่มใน A1** |
-| `late_mode` 🆕 | รับ | B | โหมดทำงานดึก — **รอ A เพิ่มใน A1** |
+| `user_lux_target` 🆕 | รับ | B | ความสว่างเป้าหมายที่ผู้ใช้ตั้ง (500–1,000) D จำกัดค่าให้อยู่ในช่วงเสมอ (NFR-15) · มีใน A1 v1.0 แล้ว |
+| `late_mode` 🆕 | รับ | B | โหมดทำงานดึก · มีใน A1 v1.0 แล้ว |
 | `lux_now` | สร้าง | D (ใช้เอง) | ค่าแสงบนโต๊ะ |
-| `alert_request` | ส่ง | B (ผ่าน queue) | เตือนเมื่อเซนเซอร์แสงเสีย / เลิกเตือนเมื่อกลับมาปกติ |
+| `alert_request` | ส่ง | B (ผ่าน queue, `source` = `SRC_LIGHT`) | เตือนเมื่อเซนเซอร์แสงเสีย / เลิกเตือนเมื่อกลับมาปกติ |
 | `i2c_lock` | ใช้ | A กำหนดกติกา | ขอก่อนอ่าน BH1750 รอไม่เกิน 50 ms |
 
 ---

diff --git a/06_testing/D-TC_testcases.md b/06_testing/D-TC_testcases.md
@@ -2,8 +2,9 @@
 
 | รายการ | ค่า |
 |---|---|
-| เวอร์ชัน | v1 |
+| เวอร์ชัน | v1.1 |
 | วันที่ | 2026-10-14 |
+| แก้ไขใน v1.1 | TC-D-04 (ง) ระบุว่า B เป็นคนคืนค่าตาม A1 v1.0 (Issue #7) |
 | เจ้าของ | D |
 | ส่งให้ | C (รวมใน C5) — **ใช้แทน TC-D-01 ถึง TC-D-03 เดิมใน C5** |
 | อ้างอิง | `01_requirements/D1_requirements.md`, `04_logic/D3_logic_light.md` |
@@ -17,7 +18,7 @@
 | TC-D-01 | unit | รักษาความสว่าง 500 lux แบบป้อนกลับ | มีคนนั่ง (`occupied` = true), สถานะ S1, แสงภายนอก 300 lux, ไฟคงที่จนแสงบนโต๊ะ ≈ 500 lux | ลดแสงภายนอก (ตัวเลื่อน `lux`) จาก 300 → 100 lux | B เพิ่มขึ้นทีละไม่เกิน 2% ต่อ 200 ms จนแสงบนโต๊ะกลับมาอยู่ที่ **500 ± 50 lux ภายใน 10 วินาที** และไฟไม่กระตุก | FR-06, NFR-02 | ได้ (ตัวเลื่อน photoresistor) |
 | TC-D-02 | unit | เปลี่ยนสีแสงตามเวลาแบบค่อยเป็นค่อยไป | มีคนนั่ง, `time_valid` = true, เวลา 16:59, r = 0.80 | ตั้งเวลาเป็น 17:00 แล้วเดินเวลาไป 18:00 และ 19:00 | ที่ 17:00 r เริ่มลดลง · ที่ **18:00 r ≈ 0.40** (ผ่านไปครึ่งทาง) · ที่ **19:00 r = 0.00** (เหลือแต่ขาวอุ่น) · r ไม่เปลี่ยนเกิน 1% ต่อนาที · ความสว่างรวมยังอยู่ที่ 500 ± 50 lux ตลอด | FR-09, NFR-10 | ได้ (ย่อสเกลเวลา) |
 | TC-D-03 | system | หรี่และปิดไฟเมื่อไม่มีคน และกลับมาเมื่อคนกลับ | มีคนนั่ง, S1, B คงที่ที่ค่าหนึ่ง (เช่น 40%) | (ก) ให้ `away_timeout` = true (B ตั้งหลังไม่มีคนครบ 5 นาที) แล้วรอ 60 วินาที (ข) ทำซ้ำ แต่ให้ `occupied` = true ระหว่างที่ค้าง 50% | (ก) ไฟหรี่เหลือ **50% ของเดิม (20%) ใน 2 วินาที** ค้าง 60 วินาที แล้ว **ค่อยๆ ดับใน 5 วินาที** → S0 (ข) ไฟเริ่มสว่างขึ้นภายใน 1 วินาที กลับไปที่ 40% ใน 2 วินาที → S1 | FR-08, NFR-03, NFR-08, NFR-11 | ได้ (ปุ่ม/PIR แทนเซนเซอร์คน, ย่อสเกลเวลา) |
-| TC-D-04 | system | ผู้ใช้ปรับความสว่าง และโหมดทำงานดึก แล้วค่าถูกล้างเมื่อลุกไป | มีคนนั่ง, เวลา 20:00 (r = 0.00), เป้าหมาย 500 lux | (ก) ตั้ง `user_lux_target` = 800 (ข) ตั้ง `late_mode` = true (ค) ตั้ง `user_lux_target` = 1,500 (นอกช่วง) (ง) ให้ `away_timeout` = true | (ก) แสงขึ้นไปที่ 800 ± 50 lux (ข) r ขึ้นไป 0.80 **ใน 10 วินาที** ไม่กระชาก (ค) ระบบใช้ 1,000 lux (ปัดเข้าช่วง) (ง) เป้าหมายกลับเป็น 500 lux และ `late_mode` ถูกล้าง | FR-07, FR-10, FR-11, NFR-11, NFR-15 | ได้ (ตั้งค่าตัวแปรในโค้ดทดสอบ หรือปุ่มของ B) |
+| TC-D-04 | system | ผู้ใช้ปรับความสว่าง และโหมดทำงานดึก แล้วค่าถูกล้างเมื่อลุกไป | มีคนนั่ง, เวลา 20:00 (r = 0.00), เป้าหมาย 500 lux | (ก) ตั้ง `user_lux_target` = 800 (ข) ตั้ง `late_mode` = true (ค) ตั้ง `user_lux_target` = 1,500 (นอกช่วง) (ง) ให้ `away_timeout` = true | (ก) แสงขึ้นไปที่ 800 ± 50 lux (ข) r ขึ้นไป 0.80 **ใน 10 วินาที** ไม่กระชาก (ค) ระบบใช้ 1,000 lux (ปัดเข้าช่วง) (ง) B คืนค่าเป้าหมายเป็น 500 lux และ `late_mode` = false (A1 ข้อ 3) ไฟกลับไปใช้ค่าเริ่มต้น | FR-07, FR-10, FR-11, NFR-11, NFR-15 | ได้ (ตั้งค่าตัวแปรในโค้ดทดสอบ หรือปุ่มของ B) |
 | TC-D-05 | unit | สีแสงเมื่อยังไม่รู้เวลา | เพิ่งเปิดเครื่อง ไม่มี Wi-Fi (`time_valid` = false) | ให้มีคนนั่ง แล้วต่อ Wi-Fi ให้ได้เวลา 10:00 | ก่อนได้เวลา: r = **0.50** และความสว่างยังคุมที่ 500 ± 50 lux · หลังได้เวลา: r ค่อยๆ ขึ้นไป 0.80 ไม่เกิน 1% ต่อนาที | FR-09, FR-20, NFR-06, NFR-10 | ได้ (ปิด/เปิด Wi-Fi ในการจำลอง) |
 | TC-D-06 | unit | เซนเซอร์แสงเสีย | มีคนนั่ง, S1 | ทำให้อ่าน BH1750 ไม่ได้ (ถอดสายในการจำลอง หรือ mock ให้คืนค่าผิดพลาด) 3 รอบติดกัน แล้วกลับมาอ่านได้ 2 รอบ | หลังเสีย 3 รอบ: ไฟค่อยๆ ไปที่ **B = 60%** และจอขึ้นคำเตือน (ALERT_SENSOR_FAULT) · หลังกลับมาปกติ 2 รอบ: คำเตือนหาย และกลับไปคุมแบบป้อนกลับ | NFR-07, NFR-14 | ได้ (mock error ในโค้ด) |
 

diff --git a/01_requirements/D1_requirements.md b/01_requirements/D1_requirements.md
@@ -2,11 +2,12 @@
 
 | รายการ | ค่า |
 |---|---|
-| เวอร์ชัน | v1 |
+| เวอร์ชัน | v1.1 |
 | วันที่ | 2026-10-14 |
+| แก้ไขใน v1.1 | ติ๊กรับรองว่าตรงกับ A1 v1.0 (Issue #7) |
 | เจ้าของ | D |
 | ส่งให้ | ทุกคน (A เช็คกับตารางข้อมูลกลาง A1) |
-| สถานะ | ✅ ใช้งานได้ |
+| สถานะ | ✅ ใช้งานได้ (A ตรวจเทียบ A1 v1.0 แล้ว) |
 
 > ไฟล์นี้ยืนยันค่าเกณฑ์แทนตารางร่างในข้อ 4 ของ `00_team_guide/00_overview.md`
 > ข้อความในข้อ 1, 2, 4, 5, 6, 7 ใช้ลงเล่มหัวข้อ 1.4, 1.5, 2.1, 2.2 และ 10.1 ได้ทันที
@@ -172,11 +173,11 @@
 |---|---|
 | B | FR-05 (เลื่อนเตือนได้ 5 นาที ไม่เกิน 2 ครั้ง ปิดถาวรไม่ได้), FR-07 (ปรับความสว่าง), FR-10 (โหมดทำงานดึก) ต้องสั่งผ่านปุ่มและจอของ B ให้ B ออกแบบวิธีกด (กดสั้น/กดค้าง/เพิ่มปุ่ม) / FR-02 ให้ B กำหนดว่าลุกนานเท่าไรถึงนับใหม่ / NFR-14 การเตือนต้องมี 2 ช่องทาง |
 | C | FR-13 ค่าเปิด 1,000 / ปิด 800 ppm (ถ้าต้องการกันแกว่งเพิ่ม ให้นับว่าเกินติดกัน 2 รอบก่อนเปิด ยังทัน NFR-01), FR-15, FR-16, FR-17 (เตือนต่ำกว่า 20°C หรือสูงกว่า 26°C), NFR-14 ไฟสถานะต้องไม่สื่อด้วยสีอย่างเดียว |
-| A | **ขอเพิ่ม 2 รายการในตารางข้อมูลกลาง:** `user_lux_target` (ความสว่างเป้าหมายที่ผู้ใช้ตั้ง 500–1,000 lux, B สร้างจากปุ่ม → D ใช้, ส่งเมื่อเปลี่ยน) และ `late_mode` (โหมดทำงานดึก จริง/เท็จ, B สร้าง → D ใช้, ส่งเมื่อเปลี่ยน) / NFR-09 ตั้ง PWM LED ที่ 5 kHz ในโค้ด / NFR-13 เพิ่มโต๊ะได้โดยไม่แก้โปรแกรมโหนดห้อง |
+| A | **ขอเพิ่ม 2 รายการในตารางข้อมูลกลาง:** `user_lux_target` (ความสว่างเป้าหมายที่ผู้ใช้ตั้ง 500–1,000 lux, B สร้างจากปุ่ม → D ใช้, ส่งเมื่อเปลี่ยน) และ `late_mode` (โหมดทำงานดึก จริง/เท็จ, B สร้าง → D ใช้, ส่งเมื่อเปลี่ยน) **(A เพิ่มแล้วใน A1 v1.0)** / NFR-09 ตั้ง PWM LED ที่ 5 kHz ในโค้ด / NFR-13 เพิ่มโต๊ะได้โดยไม่แก้โปรแกรมโหนดห้อง |
 
 ## ✅ เช็คก่อนส่ง
 
 - [x] ทุกโมดูลมี FR อย่างน้อย 1 ข้อ: ตรวจคน (FR-01, 02), อากาศ (FR-12–16), ความสว่าง (FR-06–08, 11), สีแสง (FR-09–11), เตือนพัก (FR-03–05), อุณหภูมิ (FR-17), ความชื้น (FR-18)
 - [x] NFR ทุกข้อวัดได้ (มีตัวเลขหรือเงื่อนไขที่ตรวจได้)
 - [x] ค่าเกณฑ์ทุกตัวมีที่มา
-- [ ] A ดูแล้วว่าตรงกับตารางข้อมูลกลาง
+- [x] A ดูแล้วว่าตรงกับตารางข้อมูลกลาง (A1 v1.0, 2026-10-14: เพิ่ม `user_lux_target` และ `late_mode` แล้ว, B เป็นเจ้าของและคืนค่าเมื่อ `away_timeout` เป็นจริง ตาม FR-11)

diff --git a/00_team_guide/role_D_pm_light.md b/00_team_guide/role_D_pm_light.md
@@ -141,7 +141,7 @@
 | Universal access | บท 2 หน้า 42–44 |
 | ทำไม GPIO ต้องมีวงจรขับ | บท 13 หน้า 34–35 |
 | PWM และคาบสำหรับ LED | บท 13 หน้า 91–95 |
-| Functional vs nonfunctional features (ใช้เทียบแนวคิด) | บท 10 หน้า 38 และ 45 |
+| Functional vs nonfunctional features (ใช้เทียบแนวคิด) | บท 10 หน้า 39 และ 45 |
 | Cloud vs edge (ใช้กับหัวข้อ 9) | บท 24 |
 | IoT security/privacy (ใช้กับหัวข้อ 9) | บท 26 หน้า 21–26 |
 
